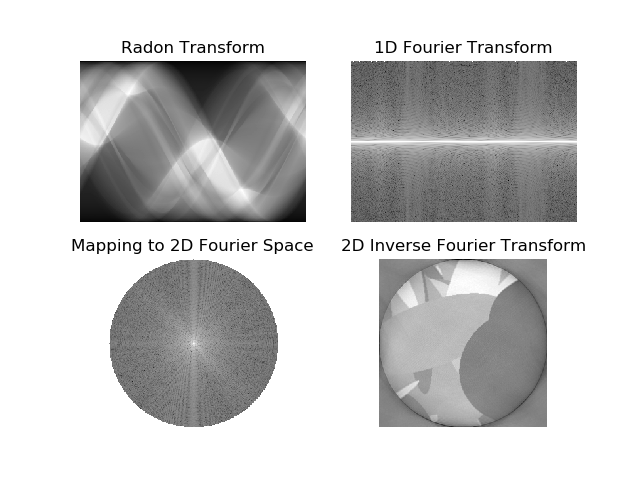
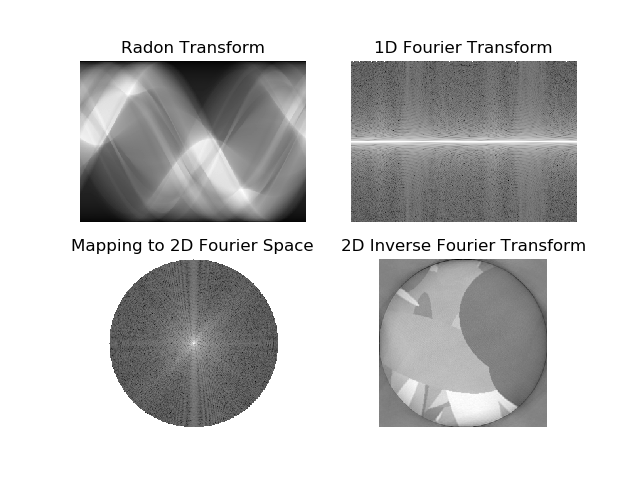
edited fourier method

Changed region(s): [[0.1562, 0.5312, 0.4375, 0.9062], [0.625, 0.5312, 0.8125, 0.9062]]

diff --git a/src/fourier_reconstruction.py b/src/fourier_reconstruction.py
@@ -1,4 +1,5 @@
 import numpy as np
+from numpy import inf
 import matplotlib.pyplot as plt
 import scipy.misc
 import scipy.interpolate
@@ -13,10 +14,13 @@ rad = scipy.misc.imread('../autoencoded_inpainting/img/original.png')
 fft = np.fft.fft(np.fft.ifftshift(rad, axes=0), axis=0)
 fft_shift = np.fft.fftshift(fft, axes=0)
 
+plt.imshow(np.log(np.abs(fft_shift)))
+plt.show()
+
 
 # Transform to 2D Fourier Space for the Slice Theorem.
 radius = np.arange(rad.shape[0]) - 0.5*rad.shape[0]
-alpha = np.arange(0, rad.shape[1], 1)*np.pi/180
+alpha = np.arange(0, rad.shape[1], 1)*np.pi/180 + 0.5*np.pi
 
 radius, alpha = np.meshgrid(radius, alpha)
 
@@ -36,7 +40,7 @@ dst_x = dst_x.flatten()
 dst_y = dst_y.flatten()
 
 fft2 = scipy.interpolate.griddata(
-    (src_x, src_y),
+    (src_y, src_x),
     fft_shift.T.flatten(),
     (dst_x, dst_y),
     method='cubic',
@@ -45,7 +49,6 @@ fft2 = scipy.interpolate.griddata(
 
 # Perform 2D inverse Fast Fourier Transform.
 reco = np.fft.fftshift(np.fft.ifft2(np.fft.ifftshift(fft2)))
-
 
 # Show results.
 plt.subplot(221)
@@ -70,3 +73,15 @@ plt.axis('off')
 
 # plt.show()
 plt.savefig('../img/fourier_reconstruction.png')
+
+"""
+fft_shift = np.log(np.abs(fft_shift))
+fft_shift[fft_shift == -inf] = 0
+
+fft2 = np.log(np.abs(fft2))
+fft2[fft2 == -inf] = 0
+
+scipy.misc.imsave('../img/1d_fourier.png', fft_shift)
+scipy.misc.imsave('../img/2d_fourier_mapping.png', fft2)
+scipy.misc.imsave('../img/fourier_reco.png', np.real(reco))
+"""

diff --git a/src/fourier_reconstruction_network_layer.py b/src/fourier_reconstruction_network_layer.py
@@ -5,6 +5,13 @@ import torch
 import torch.nn as nn
 from torch.autograd import Variable
 
+"""
+
+Currently dependent on the implementations of the fftshift and
+ifftshift functions in pytorch, which are not implemented yet.
+
+"""
+
 
 # Fourier reconstruction network.
 """
@@ -63,7 +70,8 @@ plt.show()
 # There is currently no implementation of fftshift that support autograd.
 
 
-# Transform from spherical to cartesian coordinates.
+# Transform from cylindrical to cartesian coordinates.
+
 
 
 # Perform 2D inverse Fourier Transform.
